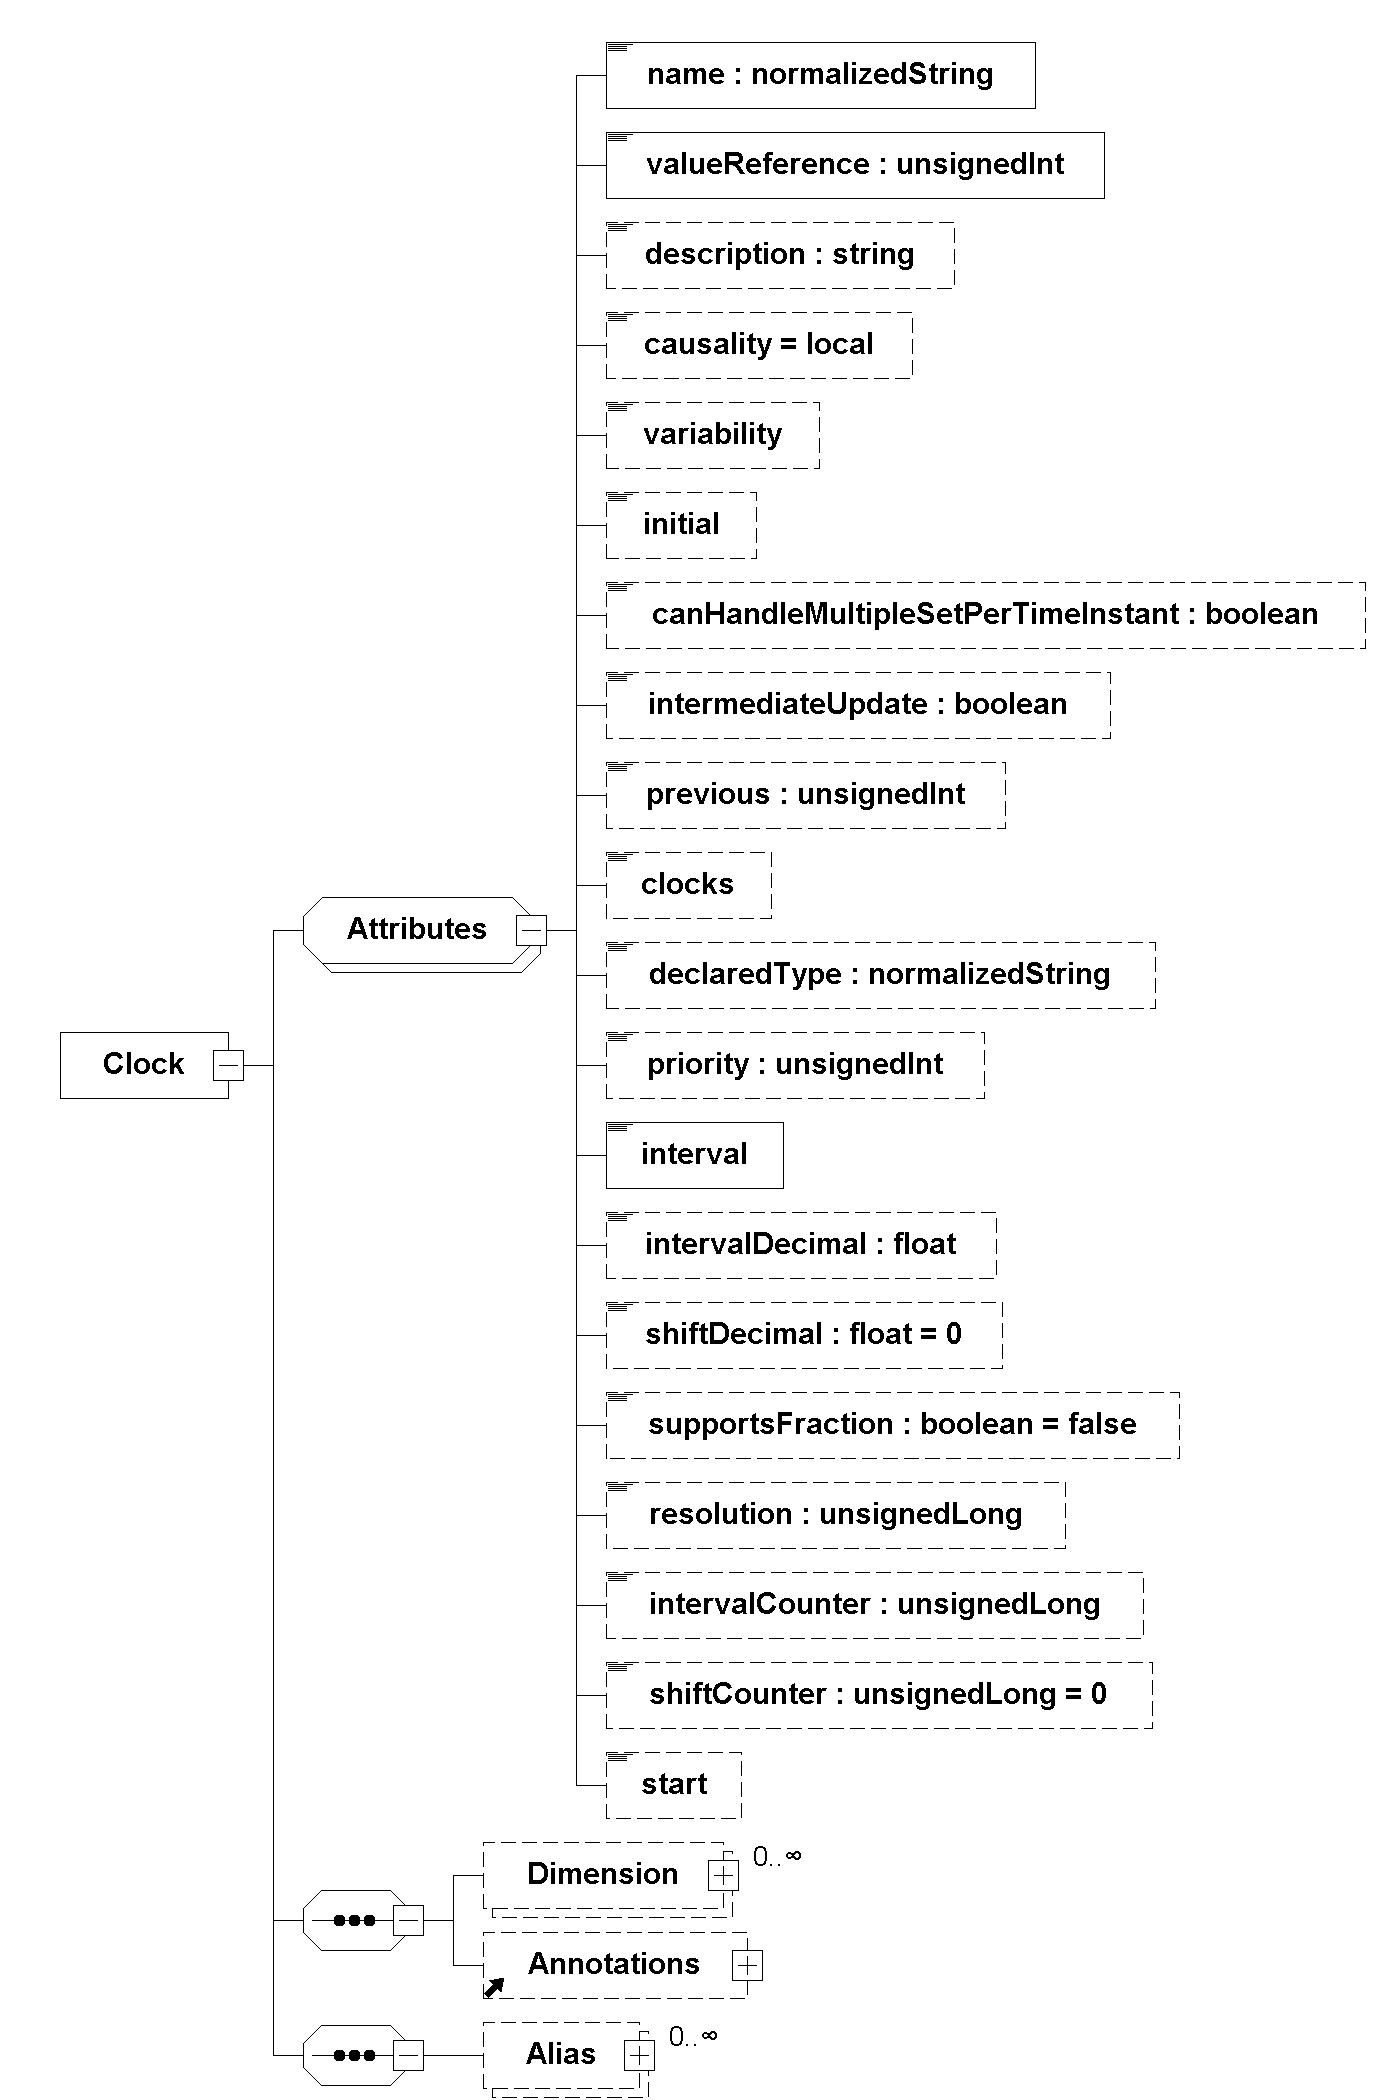
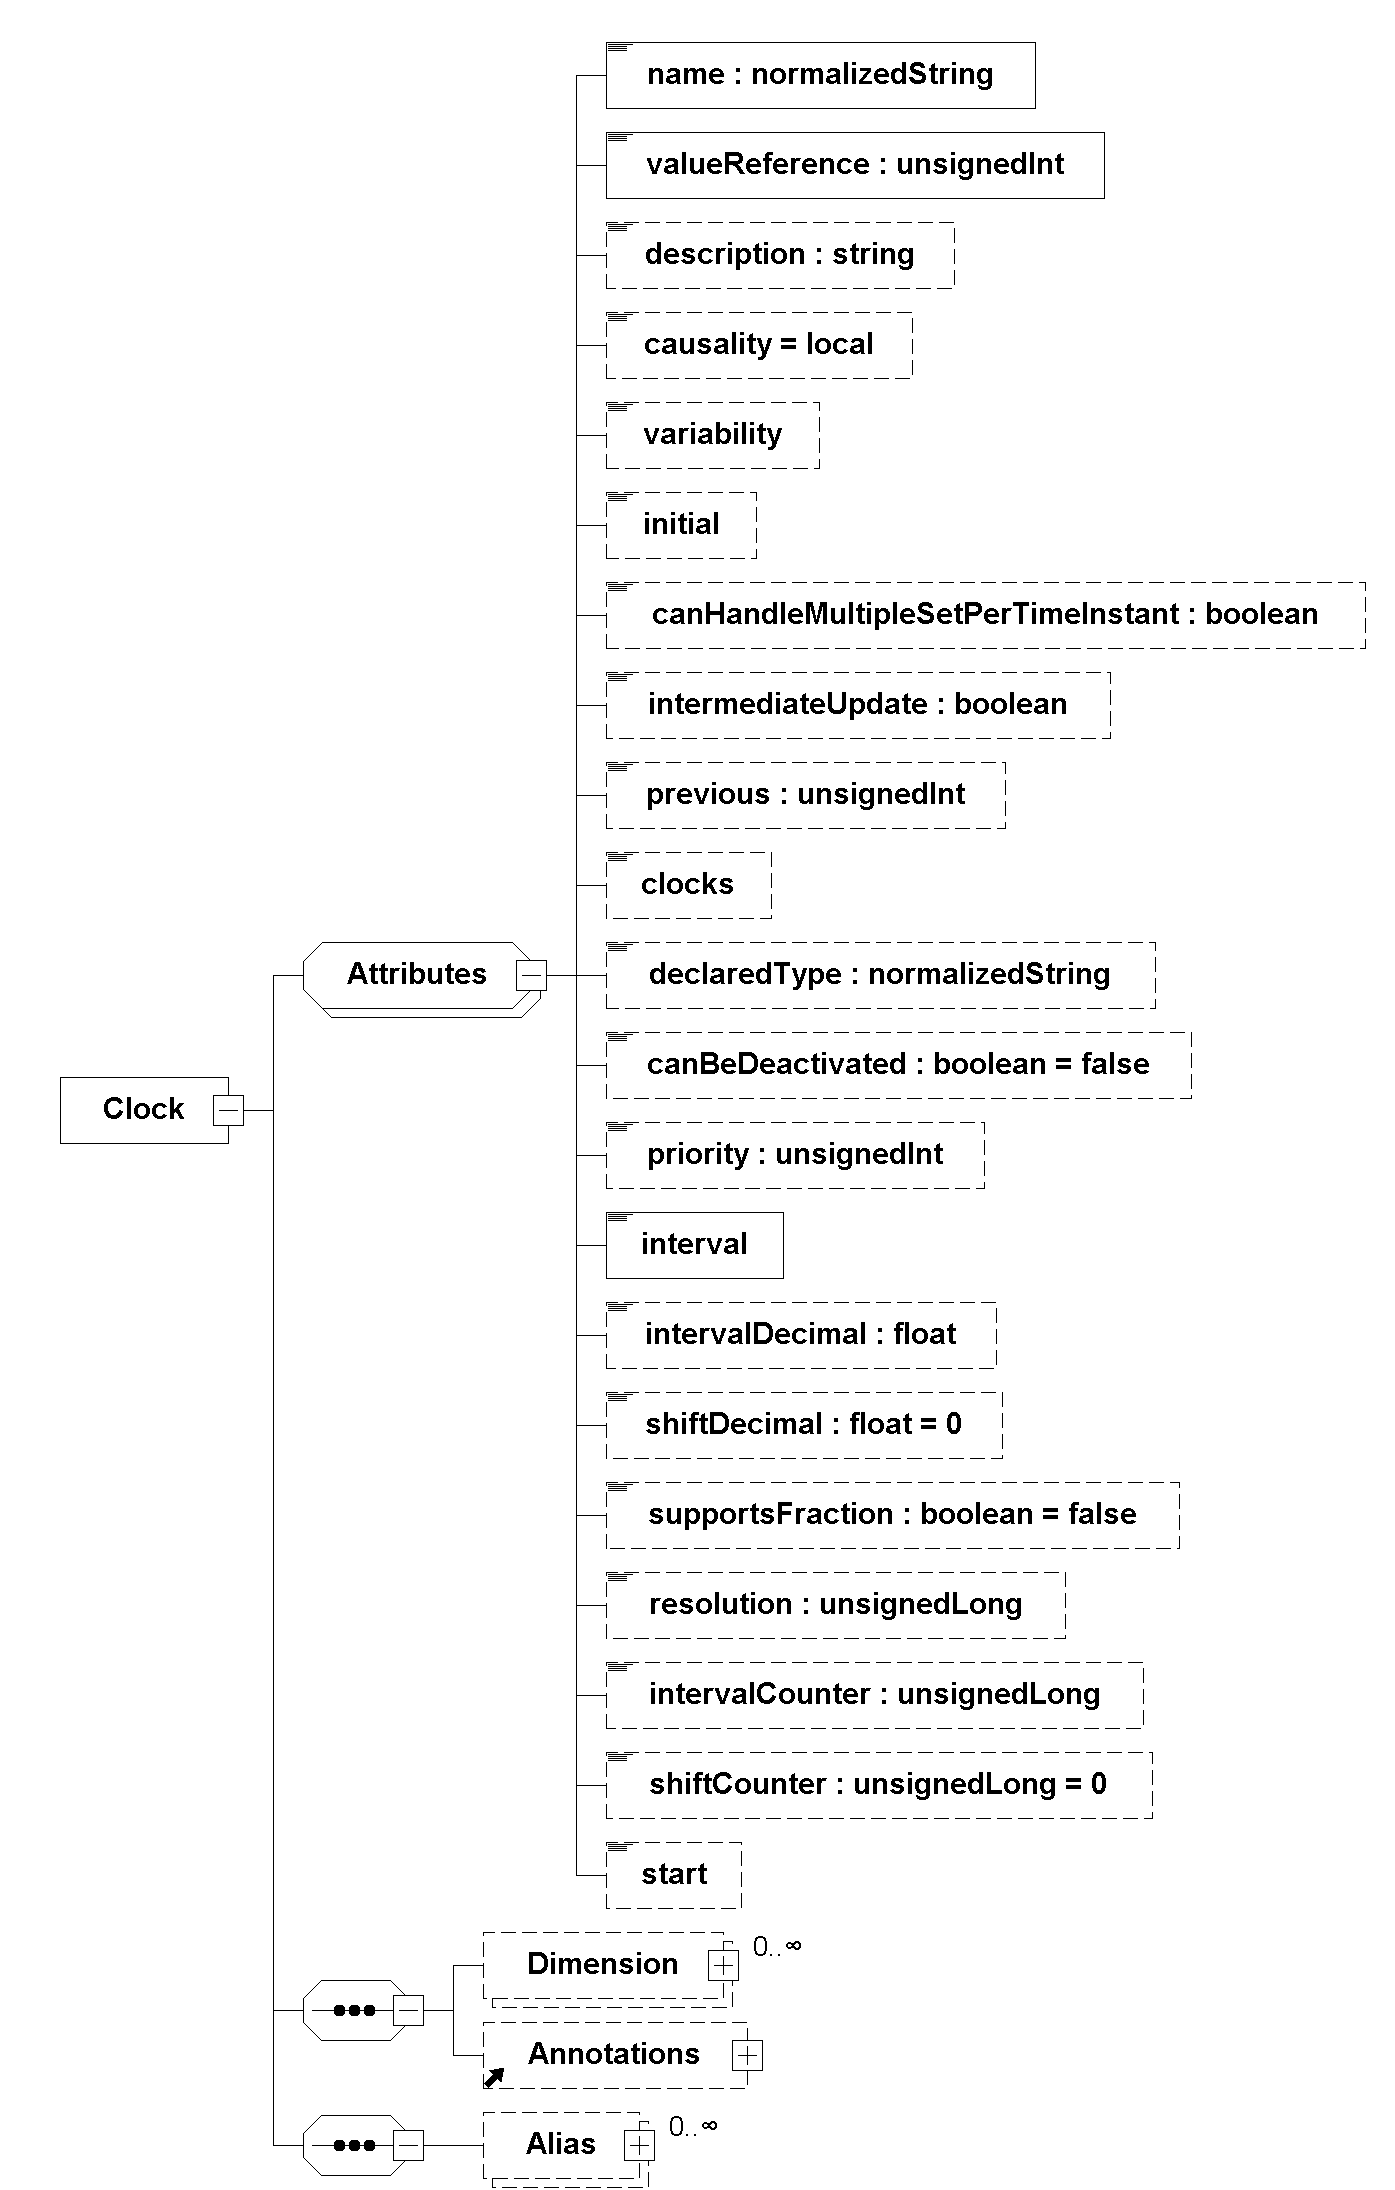
Update generated specification from fmi-standard (ad48d97)

diff --git a/docs/3.0-dev/index.html b/docs/3.0-dev/index.html
@@ -587,7 +587,7 @@ document.addEventListener('keydown', (event) => {
 <div id="header">
 <h1>Functional Mock-Up Interface Specification</h1>
 <div class="details">
-<span id="revnumber">version ceb3b58,</span>
+<span id="revnumber">version ad48d97,</span>
 <span id="revdate">2021-04-13</span>
 </div>
 <div id="toc" class="toc2">
@@ -4593,7 +4593,7 @@ In <a href="#EventMode"><strong>Event Mode</strong></a> all continuous-time, dis
 <div class="ulist">
 <ul>
 <li>
-<p>Reset respective clocked variables to their previous values: \(\mathbf{v}_{\mathit{d}} := {}^\bullet\mathbf{v}_{\mathit{d}}\)</p>
+<p>Reset respective clocked variables to their previous values: \(\mathbf{v}_{\mathit{k}} := {}^\bullet\mathbf{v}_{\mathit{k}}\)</p>
 </li>
 <li>
 <p>Deactivate respective model partitions in \(\mathbf{f}_{\mathit{event}}\)</p>
@@ -4603,7 +4603,7 @@ In <a href="#EventMode"><strong>Event Mode</strong></a> all continuous-time, dis
 </li>
 </ul>
 </div></div></td>
-<td class="tableblock halign-left valign-top"><p class="tableblock"><a href="#fmi3SetClock"><code>fmi3SetClock</code></a></p></td>
+<td class="tableblock halign-left valign-top"><p class="tableblock"><a href="#fmi3SetClockEM"><code>fmi3SetClock</code></a></p></td>
 </tr>
 <tr>
 <td class="tableblock halign-left valign-top"><div class="content"><div class="ulist">
@@ -4676,11 +4676,17 @@ In <a href="#EventMode"><strong>Event Mode</strong></a> all continuous-time, dis
 <dd>
 <p>Getting variables might trigger <a href="#selectiv-computation">computations</a>.</p>
 </dd>
+</dl>
+</div>
+<div id="fmi3SetClockEM" class="dlist">
+<dl>
 <dt class="hdlist1">Function <a href="#fmi3SetClock"><code>fmi3SetClock</code></a></dt>
 <dd>
 <p>For <a href="#inputClock"><code>input Clocks</code></a>, <a href="#fmi3SetClock"><code>fmi3SetClock</code></a> is called to set the activation status of <a href="#Clock"><code>Clocks</code></a> to <code>fmi3ClockActive</code> or <code>fmi3ClockInactive</code>.
 During the solution of algebraic loops, the activation condition of triggered input clocks may change and therefore <a href="#fmi3SetClock"><code>fmi3SetClock</code></a> can be called multiple times per super-dense time instant.
-Only <a href="#time-based-clock">Time-based clocks</a> must not be active for more than one call of <a href="#fmi3UpdateDiscreteStates"><code>fmi3UpdateDiscreteStates</code></a> per <a href="#EventMode"><strong>Event Mode</strong></a>.
+When a Clock is deactivated, the FMU must reset all clocked variables of this Clock to the values computed during the last <a href="#fmi3UpdateDiscreteStates"><code>fmi3UpdateDiscreteStates</code></a> when this Clock was active (\({}^\bullet\mathbf{v}_{\mathit{k}}\)).
+A Clock can only be set to inactive once activated if the attribute <a href="#canBeDeactivated"><code>canBeDeactivated == true</code></a>.<br>
+Only <a href="#time-based-clock">time-based Clocks</a> must not be active for more than one call of <a href="#fmi3UpdateDiscreteStates"><code>fmi3UpdateDiscreteStates</code></a> per <a href="#EventMode"><strong>Event Mode</strong></a>.
 The importer must ensure that coinciding time-based Clocks are activated at the same instant of super-dense time.<br>
 <em>[The event iteration for handling discontinuities of the continuous part of the FMU should precede handling of time-based Clocks.</em>
 <em>For that reason no further constraints on activations of time-based Clocks are defined (e.g. activating at the first instant of super-dense time).]</em></p>
@@ -6092,6 +6098,11 @@ An <code>&lt;Enumeration&gt;</code> element must have at least one <code>&lt;Ite
 </tr>
 <tr>
 <td class="tableblock halign-left valign-top" colspan="2"><p class="tableblock">Attributes for <code>ClockType</code></p></td>
+</tr>
+<tr>
+<td class="tableblock halign-left valign-top"><p class="tableblock"><code>canBeDeactivated</code></p></td>
+<td class="tableblock halign-left valign-top"><p class="tableblock"><a id="canBeDeactivated"></a>
+<a href="#Clock"><code>Clocks</code></a> with the attribute <a href="#canBeDeactivated"><code>canBeDeactivated == true</code></a> can be actively deactivated using <a href="#fmi3SetClockEM"><code>fmi3SetClock</code></a>.</p></td>
 </tr>
 <tr>
 <td class="tableblock halign-left valign-top"><p class="tableblock"><code>priority</code></p></td>
